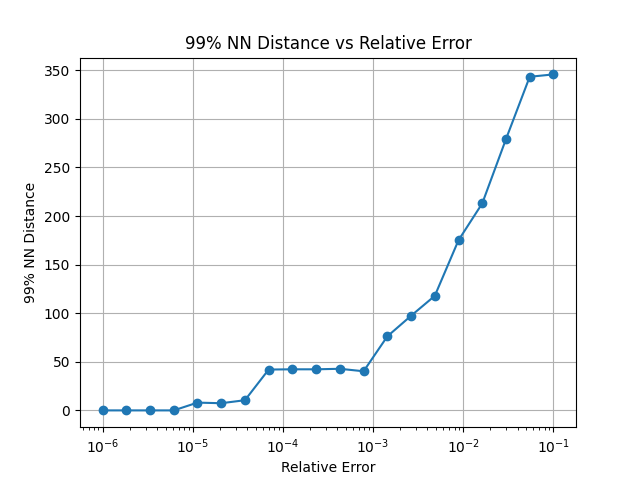
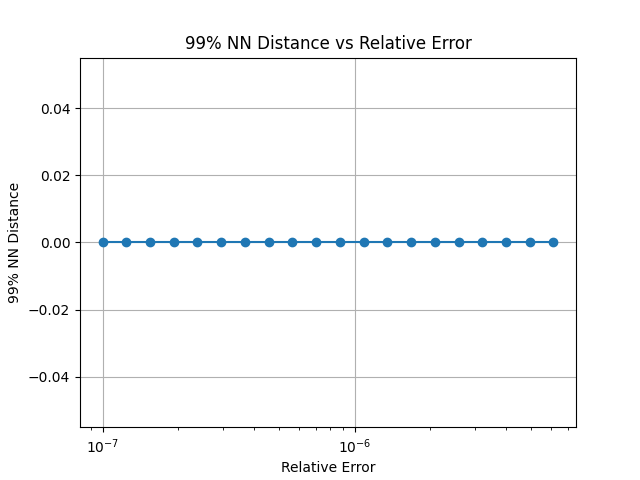
updated

diff --git a/run_pressio_pipeline.py b/run_pressio_pipeline.py
@@ -11,7 +11,7 @@ input_file = "/home/ziweiq2/LibPressio/dataset/SDRBENCH-EXASKY-NYX-512x512x512/b
 dims = [512, 512, 512]
 halo_exe = "/home/ziweiq2/halo/reeber/build/examples/amr-connected-components/amr_connected_components_float"
 
-rel_errors = np.logspace(-6, -1, num=20).tolist()  
+rel_errors = np.logspace(-7, np.log10(6.15e-6), num=20)  
 # rel_errors.extend([1e-1 ,5e-2 ,1e-2, 5e-3 ,1e-3, 5e-4, 1e-4 ,5e-5, 1e-5, 5e-6, 1e-6])
 rel_errors = sorted(list(set(rel_errors)), reverse=True) 
 external_script = "halo_dual_pressio.py"
